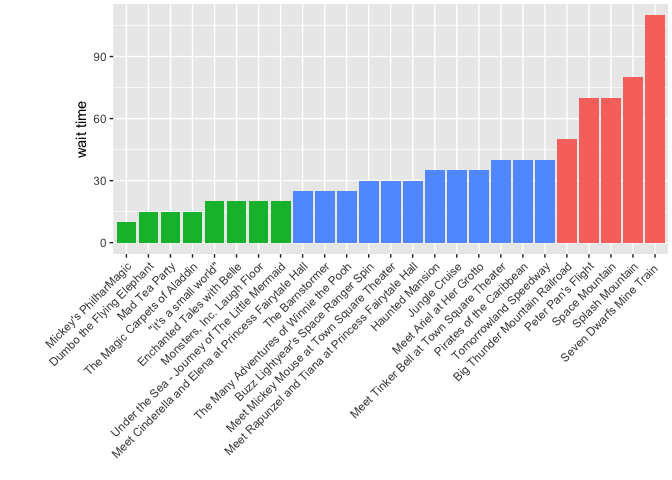
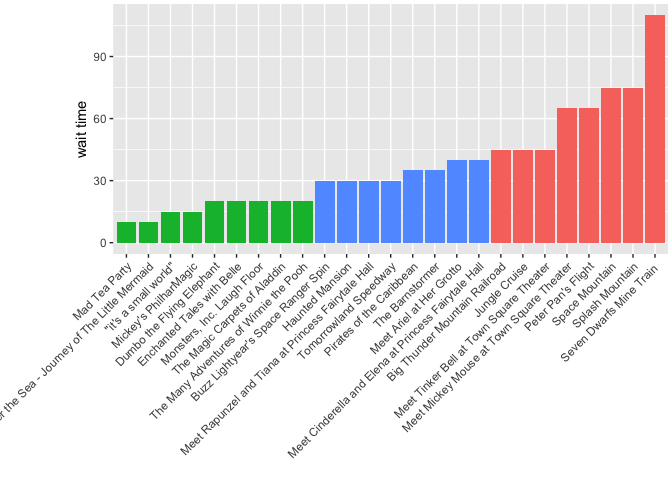
add travis :tada: :beers: :sparkles:

diff --git a/README.md b/README.md
@@ -3,6 +3,8 @@
 parkhoppr
 =========
 
+[![Travis-CI Build Status](https://travis-ci.org/LucyMcGowan/parkhoppr.svg?branch=master)](https://travis-ci.org/LucyMcGowan/parkhoppr)
+
 The goal of parkhoppr is to allow access to Disney World wait times.
 
 Installation
@@ -33,11 +35,11 @@ get_wait_times()
 #>  3     Walt Disney World Railroad - Frontierland        NA     FALSE
 #>  4             Walt Disney's Enchanted Tiki Room        NA     FALSE
 #>  5                Sorcerers of the Magic Kingdom        NA     FALSE
-#>  6                               The Barnstormer        25      TRUE
+#>  6                               The Barnstormer        35      TRUE
 #>  7      Walt Disney World Railroad - Fantasyland        NA     FALSE
 #>  8             Casey Jr. Splash 'N' Soak Station        NA     FALSE
 #>  9                             Cinderella Castle        NA     FALSE
-#> 10 Under the Sea - Journey of The Little Mermaid        20      TRUE
+#> 10 Under the Sea - Journey of The Little Mermaid        10      TRUE
 #> # ... with 68 more rows, and 4 more variables: status <chr>,
 #> #   single_rider <lgl>, type <chr>, wait_time_lst <list>
 ```
